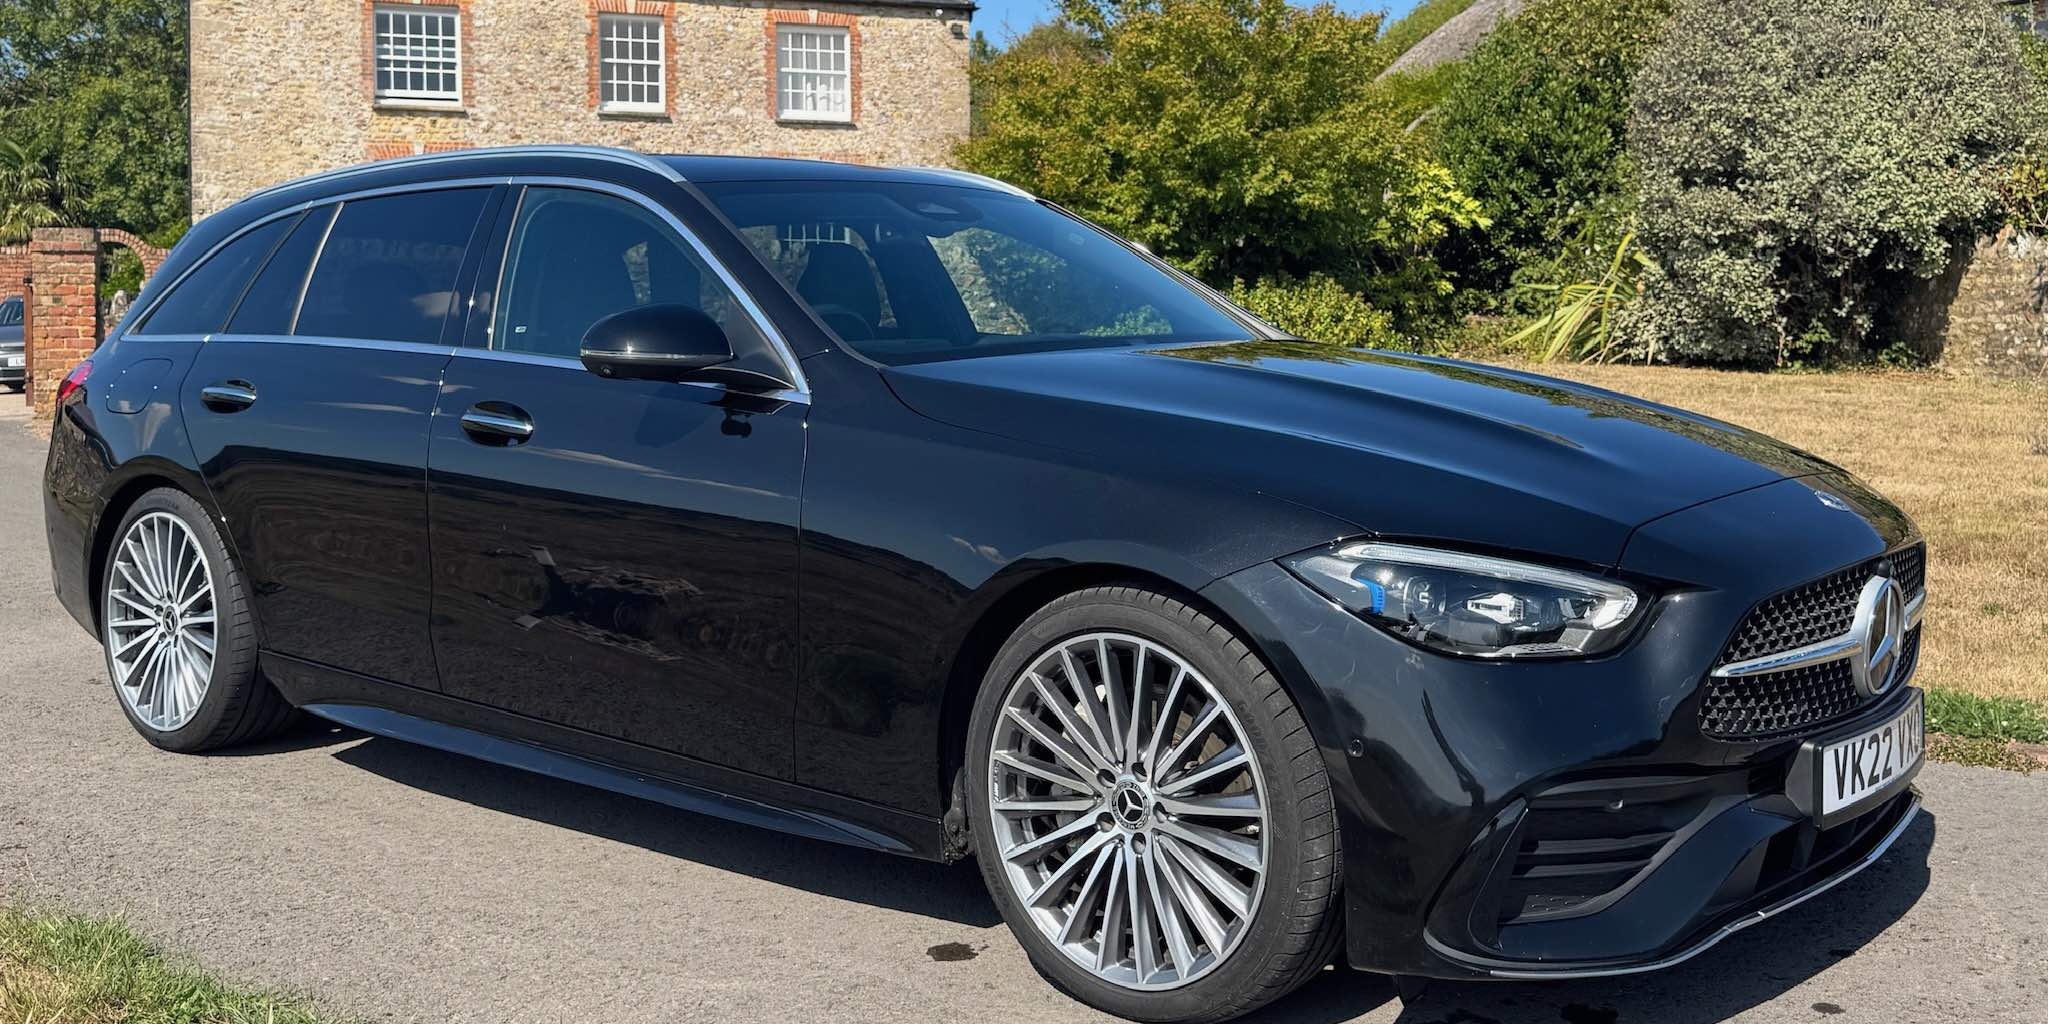
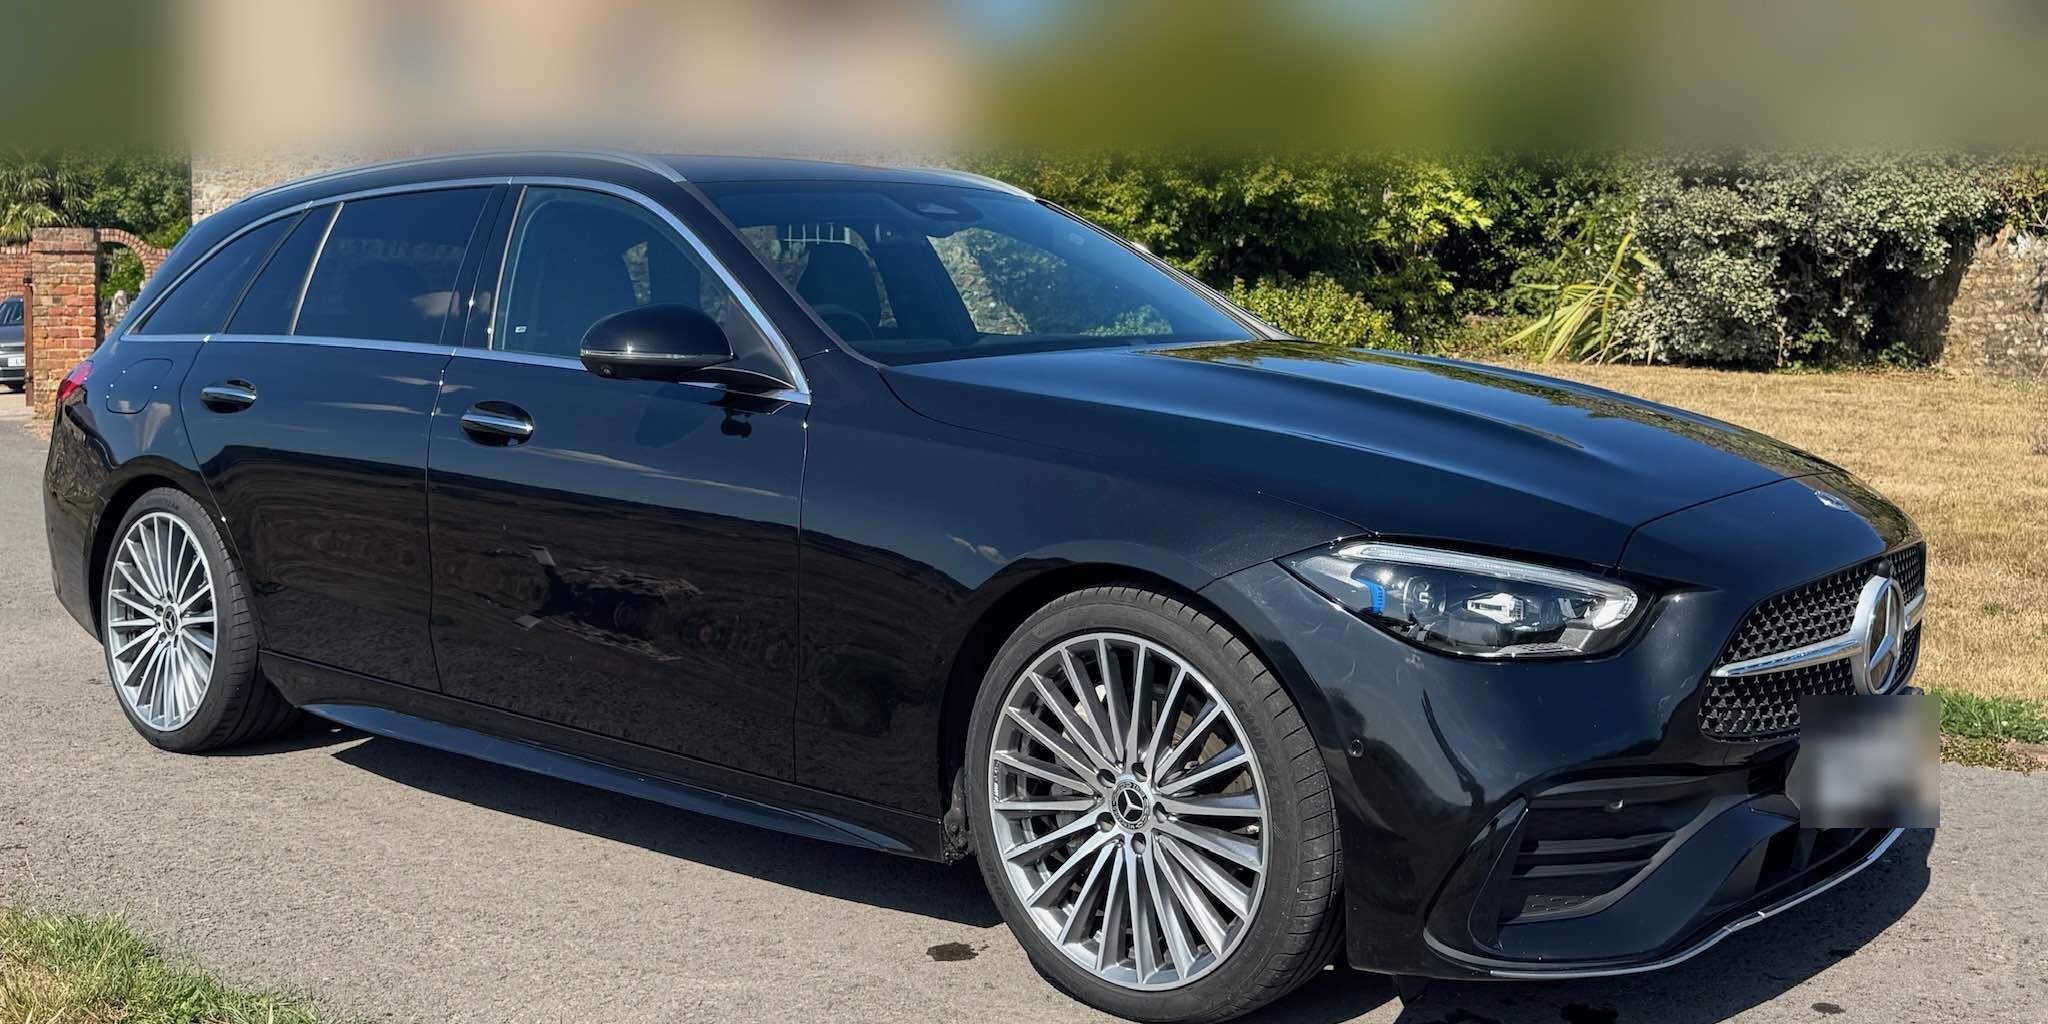
Blur plate and house in hero photo; clarify hero postcode placeholder
The geocoder needs a full postcode, so the Buy tab placeholder now says so.

Changed region(s): [[0.0, 0.0, 1.0, 0.1875], [0.875, 0.6562, 0.9688, 0.8125]]

diff --git a/app/components/HeroSearch.tsx b/app/components/HeroSearch.tsx
@@ -120,7 +120,7 @@ export default function HeroSearch({ liveMakes = [] }: { liveMakes?: string[] })
               type="text"
               value={postcode}
               onChange={(e) => setPostcode(e.target.value)}
-              placeholder="Your postcode"
+              placeholder="Full postcode, e.g. EX13 5RF"
               maxLength={8}
               autoComplete="postal-code"
             />
